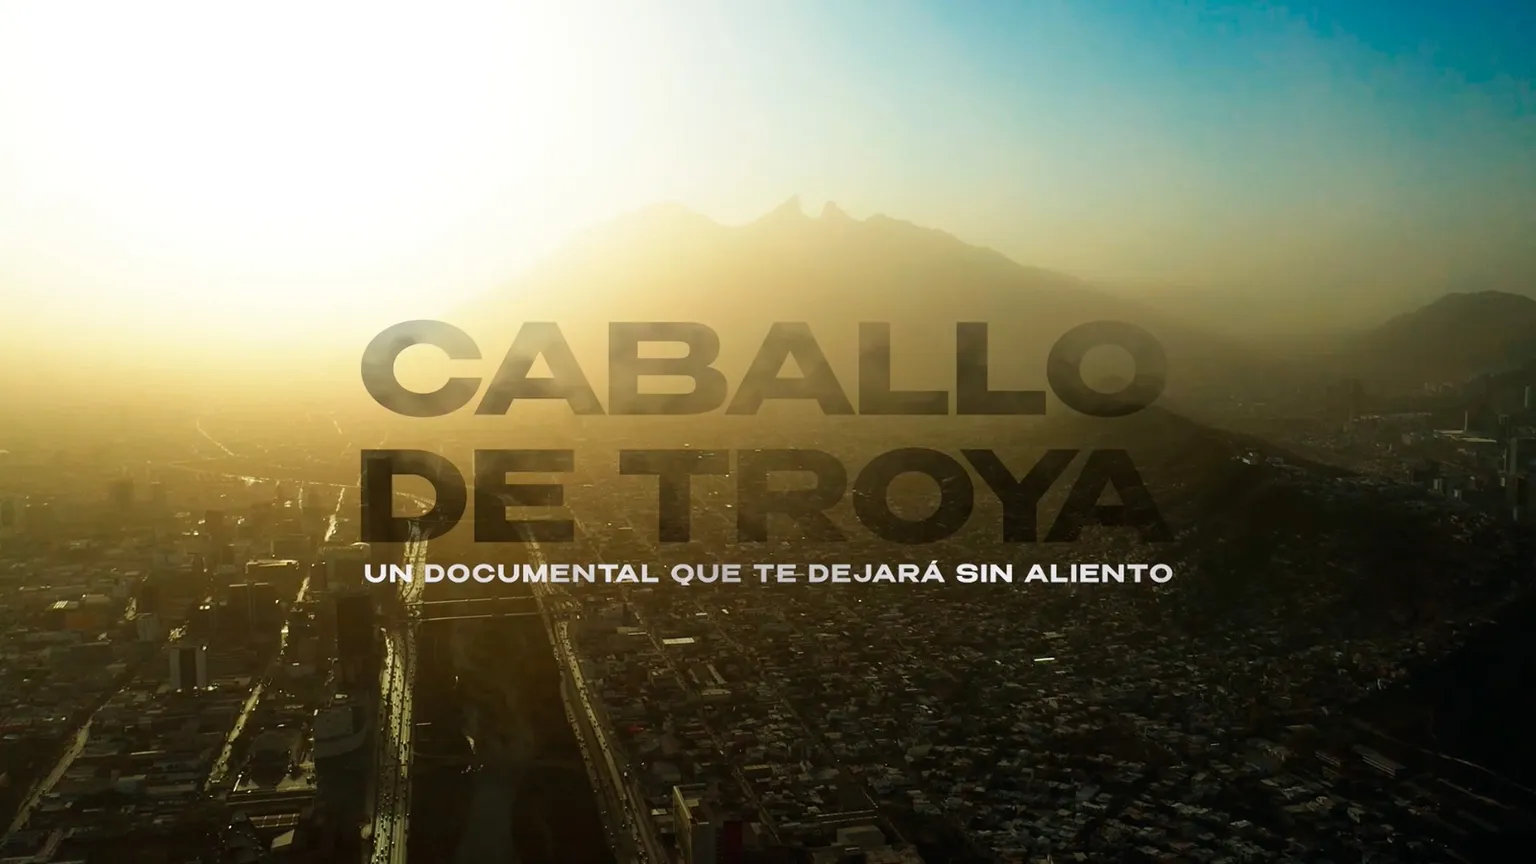
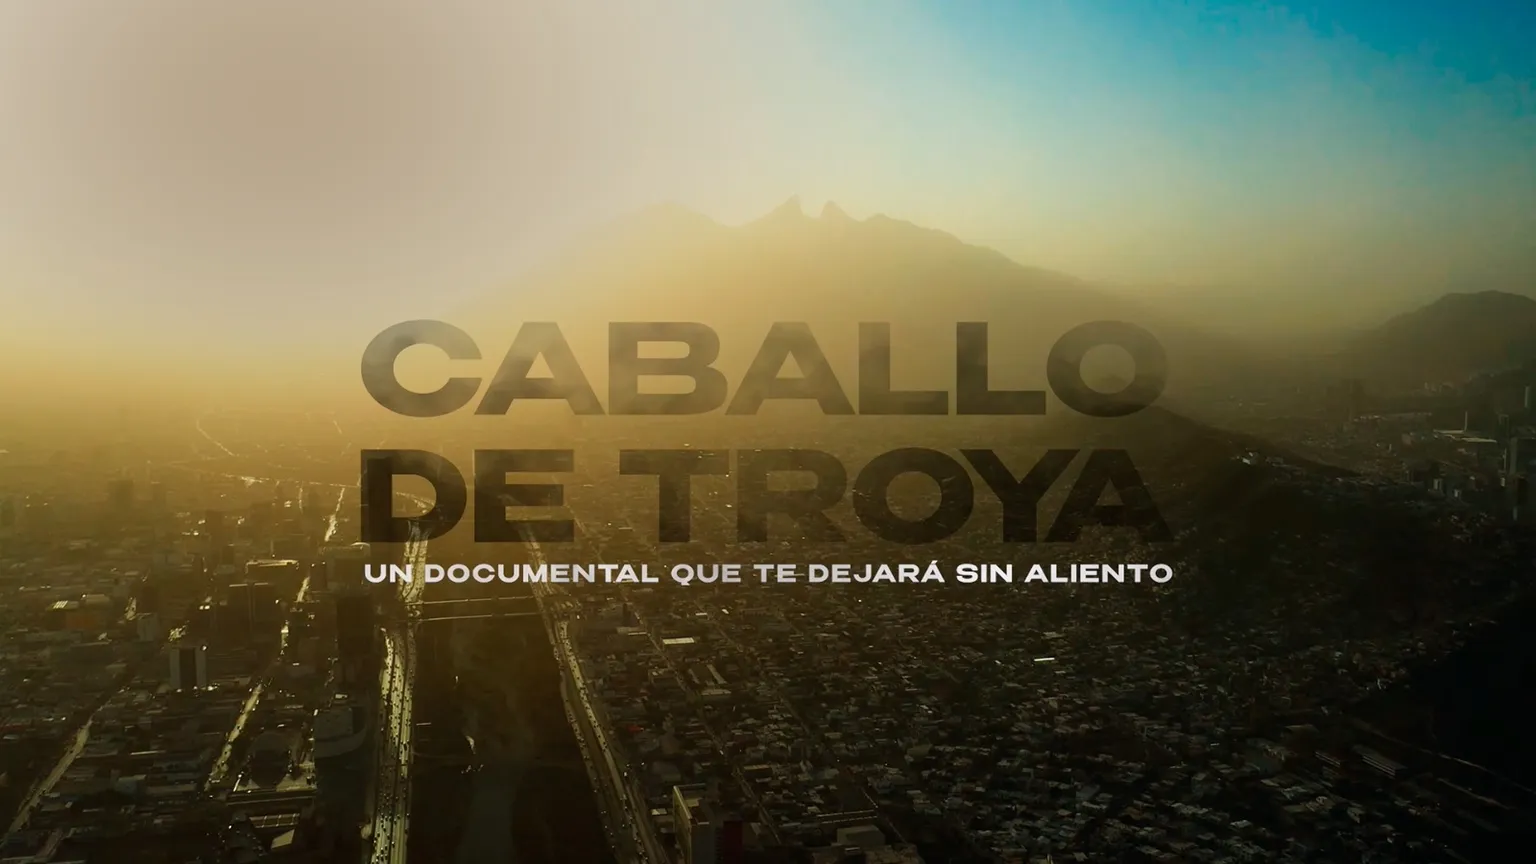
content(publicaciones): tone down the glare in the Caballo de Troya cover's top left
Warm radial darkening (smoothstep falloff, ~35% at the corner). Link card d=34.

Changed region(s): [[0.0, 0.0, 0.5625, 0.5312]]

diff --git a/app/publicaciones/data.ts b/app/publicaciones/data.ts
@@ -505,7 +505,7 @@ function nodeText(node: React.ReactNode): string {
 // A publication's link card (app/api/og/publicaciones/[slug]). d= is its
 // design version: bump it on any change, chat apps cache per image URL.
 export function linkCard(p: Publicacion) {
-  return { url: `/api/og/publicaciones/${p.slug}?d=33`, width: 1200, height: 630, alt: p.title };
+  return { url: `/api/og/publicaciones/${p.slug}?d=34`, width: 1200, height: 630, alt: p.title };
 }
 
 // The link to share an item: its page here (the library opens every item's
